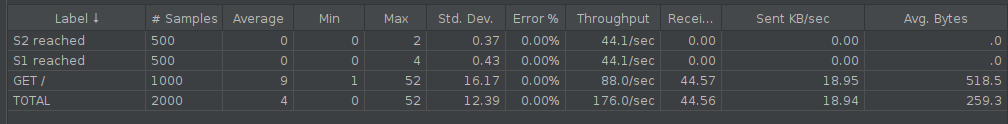
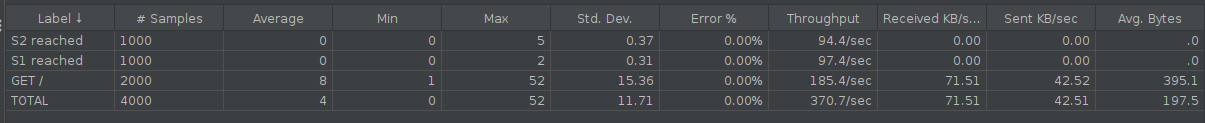
part 4 end

diff --git a/Report.md b/Report.md
@@ -178,28 +178,59 @@ Hypertext Transfer Protocol
 
 1. Be sure the delay is of 0 milliseconds is set on `s1`. Do a run to have base data to compare with the next experiments.
 
+**Note: j'utilise 2 threads et 1000 loops et j'ai set le delay de S2 a 0**
+
 ![4.1](./captures/4-1.png)
 
 2. Set a delay of 250 milliseconds on `s1`. Relaunch a run with the JMeter script and explain what it is happening?
 
-**TODO**
+**Ça prend beaucoup plus de temps a faire le test, du aux 2 users et qu'il faut attendre 250 ms sur S1, on peut le voir dans la colonne Throughput: S2 a une valeur très proche de celle de la base, alors que S1 atteint juste 3.3 par seconde.**
 
 ![4.2](./captures/4-2.png)
 
 3. Set a delay of 2500 milliseconds on `s1`. Same than previous step.
 
-**On peut voir que le S1 n'est même pas affiché**
+**On peut voir que le S1 n'est même pas affiché, car jamais atteint.**
 
 ![4.3](./captures/4-3.png)
 
 4. In the two previous steps, are there any error? Why?
 
-**dans les logs docker compose on peut voir ce message dans la ligne ha: "... Server nodes/s1 is DOWN ... Layer7 timeout ...", cela est du au fait que le délais de 2500 millisecondes est plus grand que le délais de timeout, du coup au yeux du proxy, le serveur s1 est down **
+**Dans les logs docker compose on peut voir ce message dans la ligne ha: "... Server nodes/s1 is DOWN ... Layer7 timeout ...", cela est du au fait que le délais de 2500 millisecondes est plus grand que le délais de timeout, du coup au yeux du proxy, le serveur s1 est down (ce qui explique pourquoi il n'était jamais atteints dans la partie précédente).**
 
 ![4.4](./captures/4-4.png)
 
 5. Update the HAProxy configuration to add a weight to your nodes. For that, add `weight [1-256]` where the value of weight is between the two values (inclusive). Set `s1` to 2 and `s2` to 1. Redo a run with 250ms delay.
+
+**10 utilisateurs avec 100 loops pour gagner du temps (et avoir des chiffres qui se lisent facilement en pour mille), d'abord sans les 250 ms de delay sur S1, On peut voir que dans la répartition est différente: au lieu de la répartitions 50/50 comme dans la partie 4.2 (1000-1000) on a soit : 300-700 ou 600-400 (avoir exactement 333-666 est impossible avec 10 utilisateurs (10 mod 3 n'est pas 0))**
+
+![4.5](./captures/4-5.png)
+
+![4.5.2](./captures/4-5-2.png)
+
+**Avec le delay de 250 ms sur S1, l’exemple du dessous est la seule fois ou il a survécu. (je n'ai jamais pu voir l'autre resultat (300-700)).**
+
+![4.51-2](./captures/4-51-2.png)
+
+**Avec 250 ms de delay un poids de 2 sur S1 et 10, il a tendance a faire un timeout ce qui donne le résultat suivant. La conséquence est que tout est redirigé sur S2 ce qui donne des résultats qui ne s'approche pas du tout des poids 1 pour 2 (33-66) (logique comme S1 est considéré down)**
+
+![4.51.error](./captures/4-51-error.png)
+
+![4.51](./captures/4-51.png)
+
+
 6. Now, what happened when the cookies are cleared between each requests and the delay is set to 250ms ? We expect just one or two sentence to summarize your observations of the behavior with/without cookies.
+
+**Malheureusement je ne peux pas faire cette partie avec 10 users comme j'ai systématiquement un timeout, même si au lieu de 100 itérations j'en fait seulement 10.**
+
+![4.6](./captures/4-6.png)
+
+![4.6.error](./captures/4-6-error.png)
+
+**par contre avec 2 utilisateurs et 500 loops (pour avoir des pour mille) j'obtiens ça (333-667) (au lieu de 500-500) cela est du au fait que comme les cookies sont effacé à chaque tentative c'est comme si nos 2 users sont en fait 1000 users comme le cookie est leur mémoire et du coup oublie a chaque fois quel serveur leur avait été assigné **
+
+![4.6.succ](./captures/4-6-succ.png)
+
 
 ### Tâche 5(tout le monde)
 
@@ -281,7 +312,7 @@ leastconn   The server with the lowest number of connections receives the
 
   **Configuration de HAProxy**
 
-  On configure la stratégie d'ordonnancement dans ``backend``.
+  On configure la stratégie d'ordonnancement dans ``backend``.meme
 
   ```
   balance leastconn
